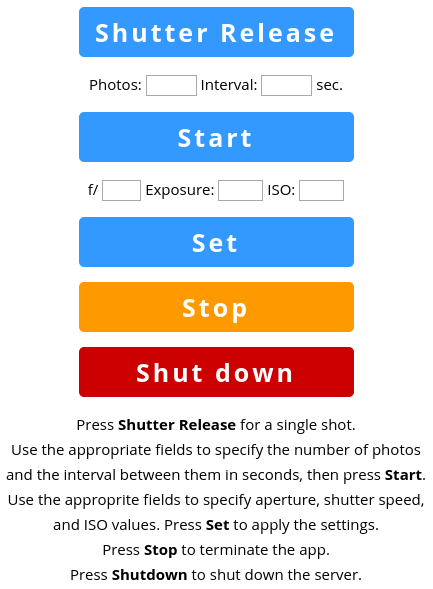
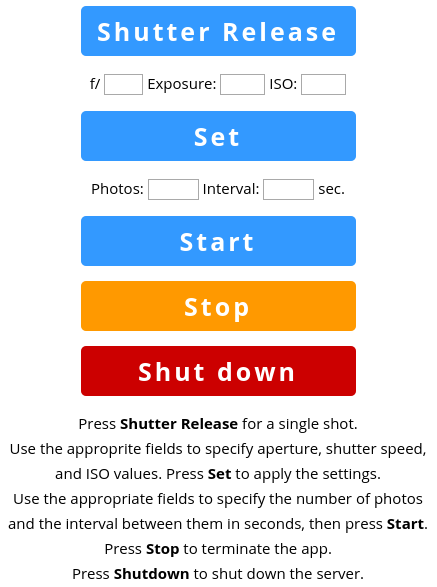
dn2820fykh-kubuntu

diff --git a/gphoto2-bottle.py b/gphoto2-bottle.py
@@ -25,10 +25,6 @@ param3 = '/main/imgsettings/iso='
 def release_control():
     if (request.POST.get("shutter_release")):
         os.system('gphoto2 --capture-image-and-download --filename "%Y%m%d-%H%M%S-%03n.%C"')
-    if (request.POST.get("start")):
-        number = int(request.forms.get('number'))
-        interval = int(request.forms.get('interval'))
-        os.system('gphoto2 --interval '+ str(interval) +' --frames ' + str(number) + ' --capture-image-and-download --filename "%Y%m%d-%H%M%S-%03n.%C"')
     if (request.POST.get("set-config")):
         aperture = request.forms.get('aperture')
         os.system('gphoto2 --set-config-value ' + param1 + aperture)
@@ -36,6 +32,10 @@ def release_control():
         os.system('gphoto2 --set-config-value ' + param2 + shutterspeed)
         iso = request.forms.get('iso')
         os.system('gphoto2 --set-config-value ' + param3 + iso)
+    if (request.POST.get("start")):
+        number = int(request.forms.get('number'))
+        interval = int(request.forms.get('interval'))
+        os.system('gphoto2 --interval '+ str(interval) +' --frames ' + str(number) + ' --capture-image-and-download --filename "%Y%m%d-%H%M%S-%03n.%C"')
     if (request.POST.get("stop")):
             os.system("killall -KILL python")
     if (request.POST.get("shutdown")):
@@ -45,16 +45,16 @@ def release_control():
     <meta name="viewport" content="width=device-width, initial-scale=1">
     <form method="POST" action="/">
     <div id="content"><p><input id="btn" name="shutter_release" type="submit" value="Shutter Release"></p>
-    <p>Photos: <input name="number" type="text" size="3"/> Interval: <input name="interval" type="text" size="3"/> sec.</p>
-    <p><input id="btn" name="start" value="Start" type="submit" /></p>
     <p>f/ <input name="aperture" type="text" size="1"/> Exposure: <input name="shutterspeed" type="text" size="2"/> ISO: <input name="iso" type="text" size="2"/>
     <p><input id="btn" name="set-config" value="Set" type="submit" /></p>
+    <p>Photos: <input name="number" type="text" size="3"/> Interval: <input name="interval" type="text" size="3"/> sec.</p>
+    <p><input id="btn" name="start" value="Start" type="submit" /></p>
     <p><input id="btn" class="stop" name="stop" value="Stop" type="submit" /></p>
     <p><input id="btn" class="shutdown" name="shutdown" value="Shut down" type="submit" /></p>
     </form>
     <p>Press <strong>Shutter Release</strong> for a single shot.<br/>
-    Use the appropriate fields to specify the number of photos<br/>and the interval between them in seconds, then press <strong>Start</strong>.<br/>
     Use the approprite fields to specify aperture, shutter speed,<br/> and ISO values. Press <strong>Set</strong> to apply the settings.<br/>
+    Use the appropriate fields to specify the number of photos<br/>and the interval between them in seconds, then press <strong>Start</strong>.<br/>
     Press <strong>Stop</strong> to terminate the app.<br/>
     Press <strong>Shutdown</strong> to shut down the server.</p>
     </div>
@@ -86,4 +86,3 @@ def release_control():
     </style>
     """
 run(host="0.0.0.0",port=8080, debug=True, reloader=True)
-

diff --git a/README.md b/README.md
@@ -1,14 +1,14 @@
 ## gPhoto2 Bottle
 
-gPhoto2 Bottle is a simple web app based for controlling cameras supported by [gPhoto2](http://www.gphoto.org/) software. The app is based on the [Bottle](http://bottlepy.org/) framework. The app is designed for use with Raspberry Pi, but it should run on any Debian machine.
+gPhoto2 Bottle is a simple web app based for controlling cameras supported by [gPhoto2](http://www.gphoto.org/) software. The app is based on the [Bottle](http://bottlepy.org/) framework. The app is designed for use with Raspberry Pi, but it should run on any Debian or Ubuntu machine.
 
 <img src="gphoto2-bottle.png" alt="gPhoto2 Bottle">
 
 ## Install and Run
 
 1. Clone the project's repository using the `git clone https://github.com/dmpop/gphoto2-bottle.git` command. Switch to the resulting *gphoto2-bottle* directory.
-2. If necessary, compile gPhoto 2.5.2 by running the `sudo ./gphoto2-updater.sh` command.
+2. Compile gPhoto 2.5.2 by running the `sudo ./gphoto2-updater.sh` command. This step is required only if the official repositories contain version of gPhoto2 lower than 2.5.2.
 3. Install the Bottle framework using the `sudo apt-get install python-pip` and `sudo pip install bottle` commands.
 4. Launch the app by running the `sudo ./gphoto2-bottle.py` command.
-5. Make sure that your camera connected to the server via a USB cable.
-6. Point the browser to http://127.0.0.1.8080/ (replace *127.0.0.1* with the actual IP address of the server) to access and use the app.
+5. Make sure that your camera connected to the machine running gPhoto2 Bottle via a USB cable.
+6. Point the browser to http://127.0.0.1.8080/ (replace *127.0.0.1* with the actual IP address of the machine running gPhoto2 Bottle) to access and use the app.
